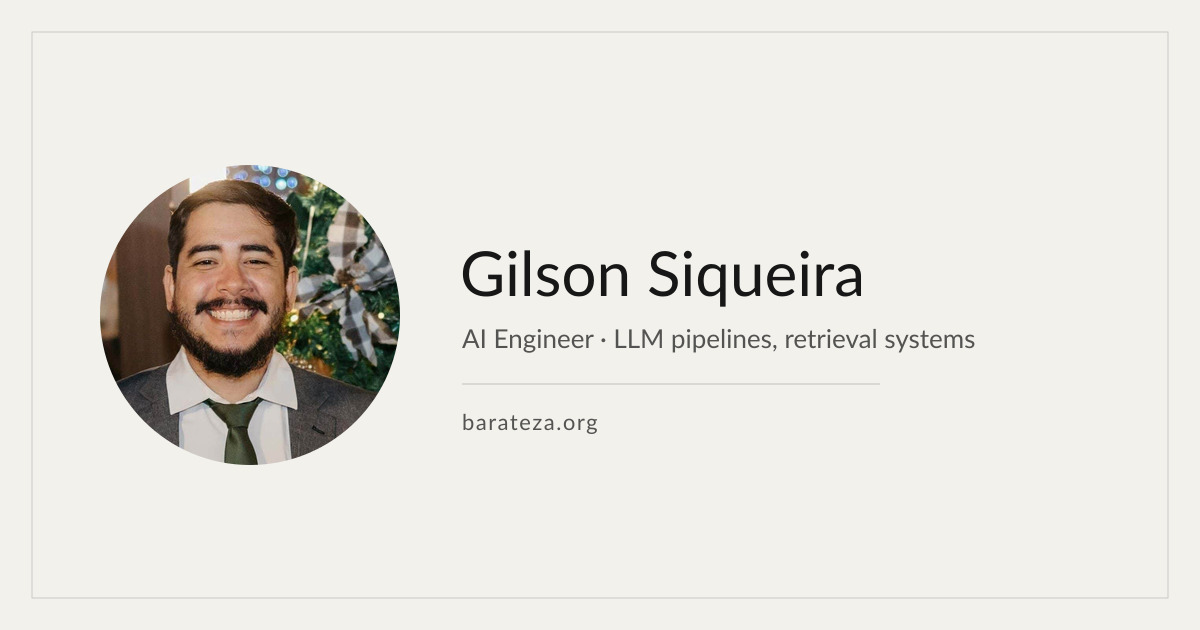
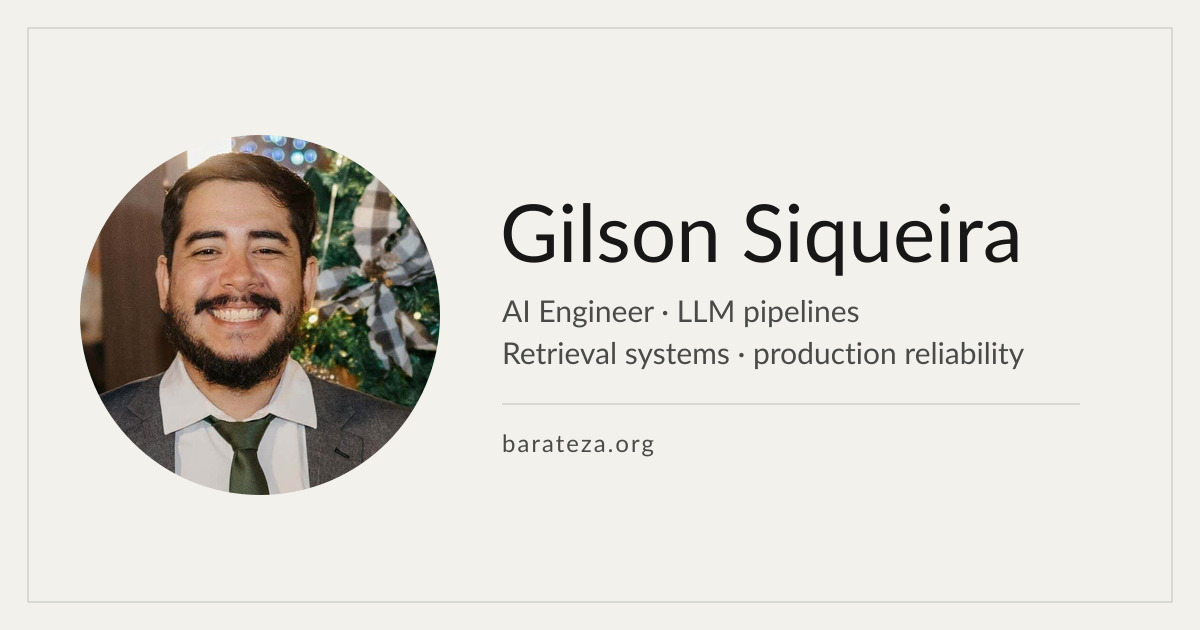
feat(og): legible social cards, per-post cards, breadcrumbs (#13)
* feat(og): per-post cards and a site card that survives a 3x downscale

LinkedIn renders a link card around 400px wide, and the previous card read as a
blur at that size: 62px name, 26px subtitle, a mostly empty frame. The layout is
now text-first — 80px name, 30px role lines, a 360px portrait — and the unused
space is gone.

Posts without seo.image (the thermal post and the dubweave post) get their own
1200x630 card, rendered from their title and date by scripts/og-cards.mjs
(`npm run og`), which prints the seo.image line to paste into the frontmatter.
Cards live under src/assets/images/og/ because seo.image is typed as an Astro
image import and a public/ URL cannot be referenced there.

* feat(seo): breadcrumbs in JSON-LD and og:image dimensions

Content pages now emit a BreadcrumbList alongside Person/WebSite and the work
node — Home > Blog > post, Home > Projects > project, Home > page — so search
results can show a trail instead of a bare URL.

Pages whose og:image is a file we ship also declare og:image:width, :height and
:type, so LinkedIn and Facebook can lay out a large card without probing the
image first.

Changed region(s): [[0.0617, 0.2111, 0.8942, 0.7841], [0.0308, 0.9349, 0.9558, 0.9651]]

diff --git a/README.md b/README.md
@@ -21,7 +21,24 @@ npm run dev          # http://localhost:4321
 npm run build        # production build → ./dist/
 npm run preview      # preview production build locally
 npm run verify:build # assert the build output is intact (see below)
+npm run og           # re-render the social cards (see below)
 ```
+
+### Social cards
+
+`public/og-preview.jpg` is the site-wide `og:image`, and posts without their own
+`seo.image` get a card under `src/assets/images/og/`. Both are 1200×630 and
+generated, not hand-made, because LinkedIn renders a link card at roughly 400px
+wide — type has to survive a 3× downscale, so the layout is text-first and
+deliberately large:
+
+```bash
+npm run og              # site card + cards for posts still missing seo.image
+npm run og -- --force   # also re-render cards for posts that already have one
+```
+
+The script prints the `seo.image.src` line to paste into a post's frontmatter.
+Regenerate after changing the avatar, the tagline, or a post title.
 
 ### Verifying a build
 

diff --git a/src/content/blog/dubweave-personal-notes.md b/src/content/blog/dubweave-personal-notes.md
@@ -12,6 +12,9 @@ seo:
   pageType: article
   title: Dubweave, for Aline
   description: A warm, simple technical deep dive into dubweave, the fully local dubbing pipeline I built for my wife.
+  image:
+    src: '../../assets/images/og/dubweave-personal-notes.jpg'
+    alt: Dubweave, for Aline
 ---
 I built dubweave for my wife, Aline. She speaks Portuguese, and I kept finding these videos (essays, documentaries, interviews) that I wanted to show her. Subtitles help, yeah, but it's not the same. When you dub something, you can both just... listen. You sit together and watch without the reading part happening in your head.
 

diff --git a/src/content/blog/the-clamp-was-turbo-not-frequency.md b/src/content/blog/the-clamp-was-turbo-not-frequency.md
@@ -12,6 +12,9 @@ seo:
   pageType: article
   title: The clamp was turbo, not frequency
   description: "Re-measuring a 2013 laptop's CPU cap with a cooldown gate and turbostat: the 800 MHz clamp comes from turbo, and the CI unit tier went from 95 s to 54 s."
+  image:
+    src: '../../assets/images/og/the-clamp-was-turbo-not-frequency.jpg'
+    alt: The clamp was turbo, not frequency
 ---
 
 Two rows in my own notes could not both be true.
